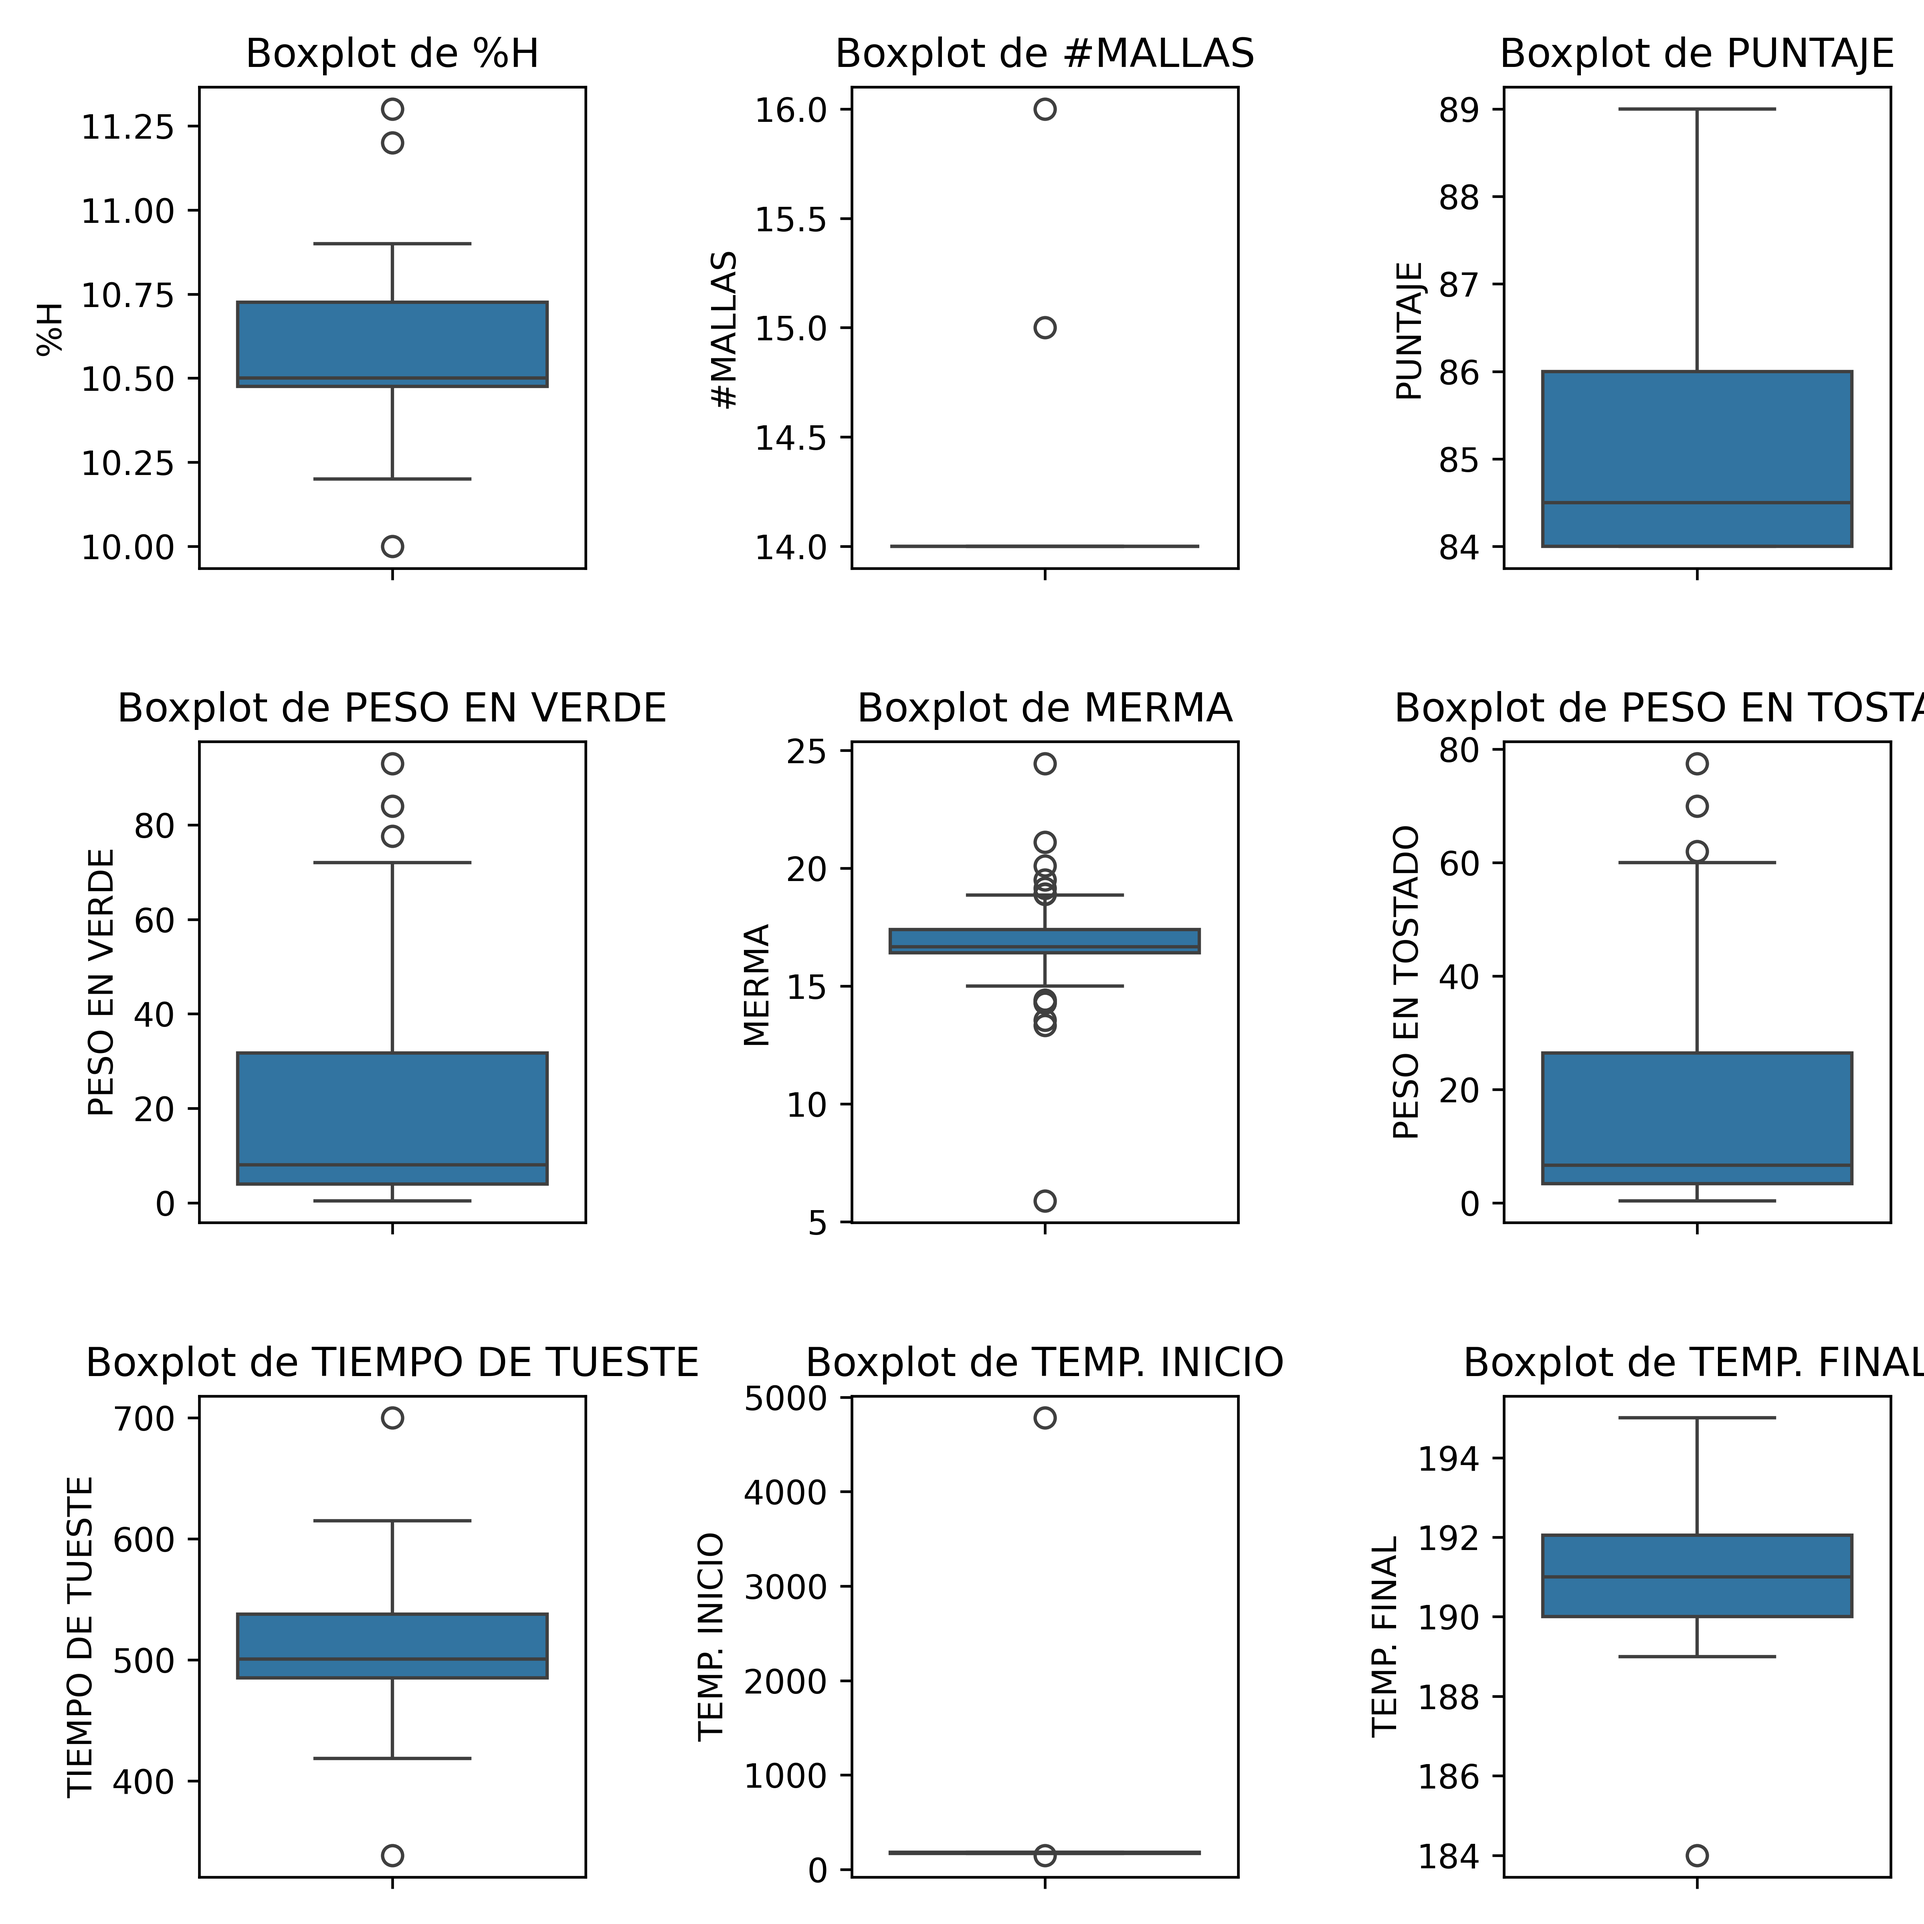
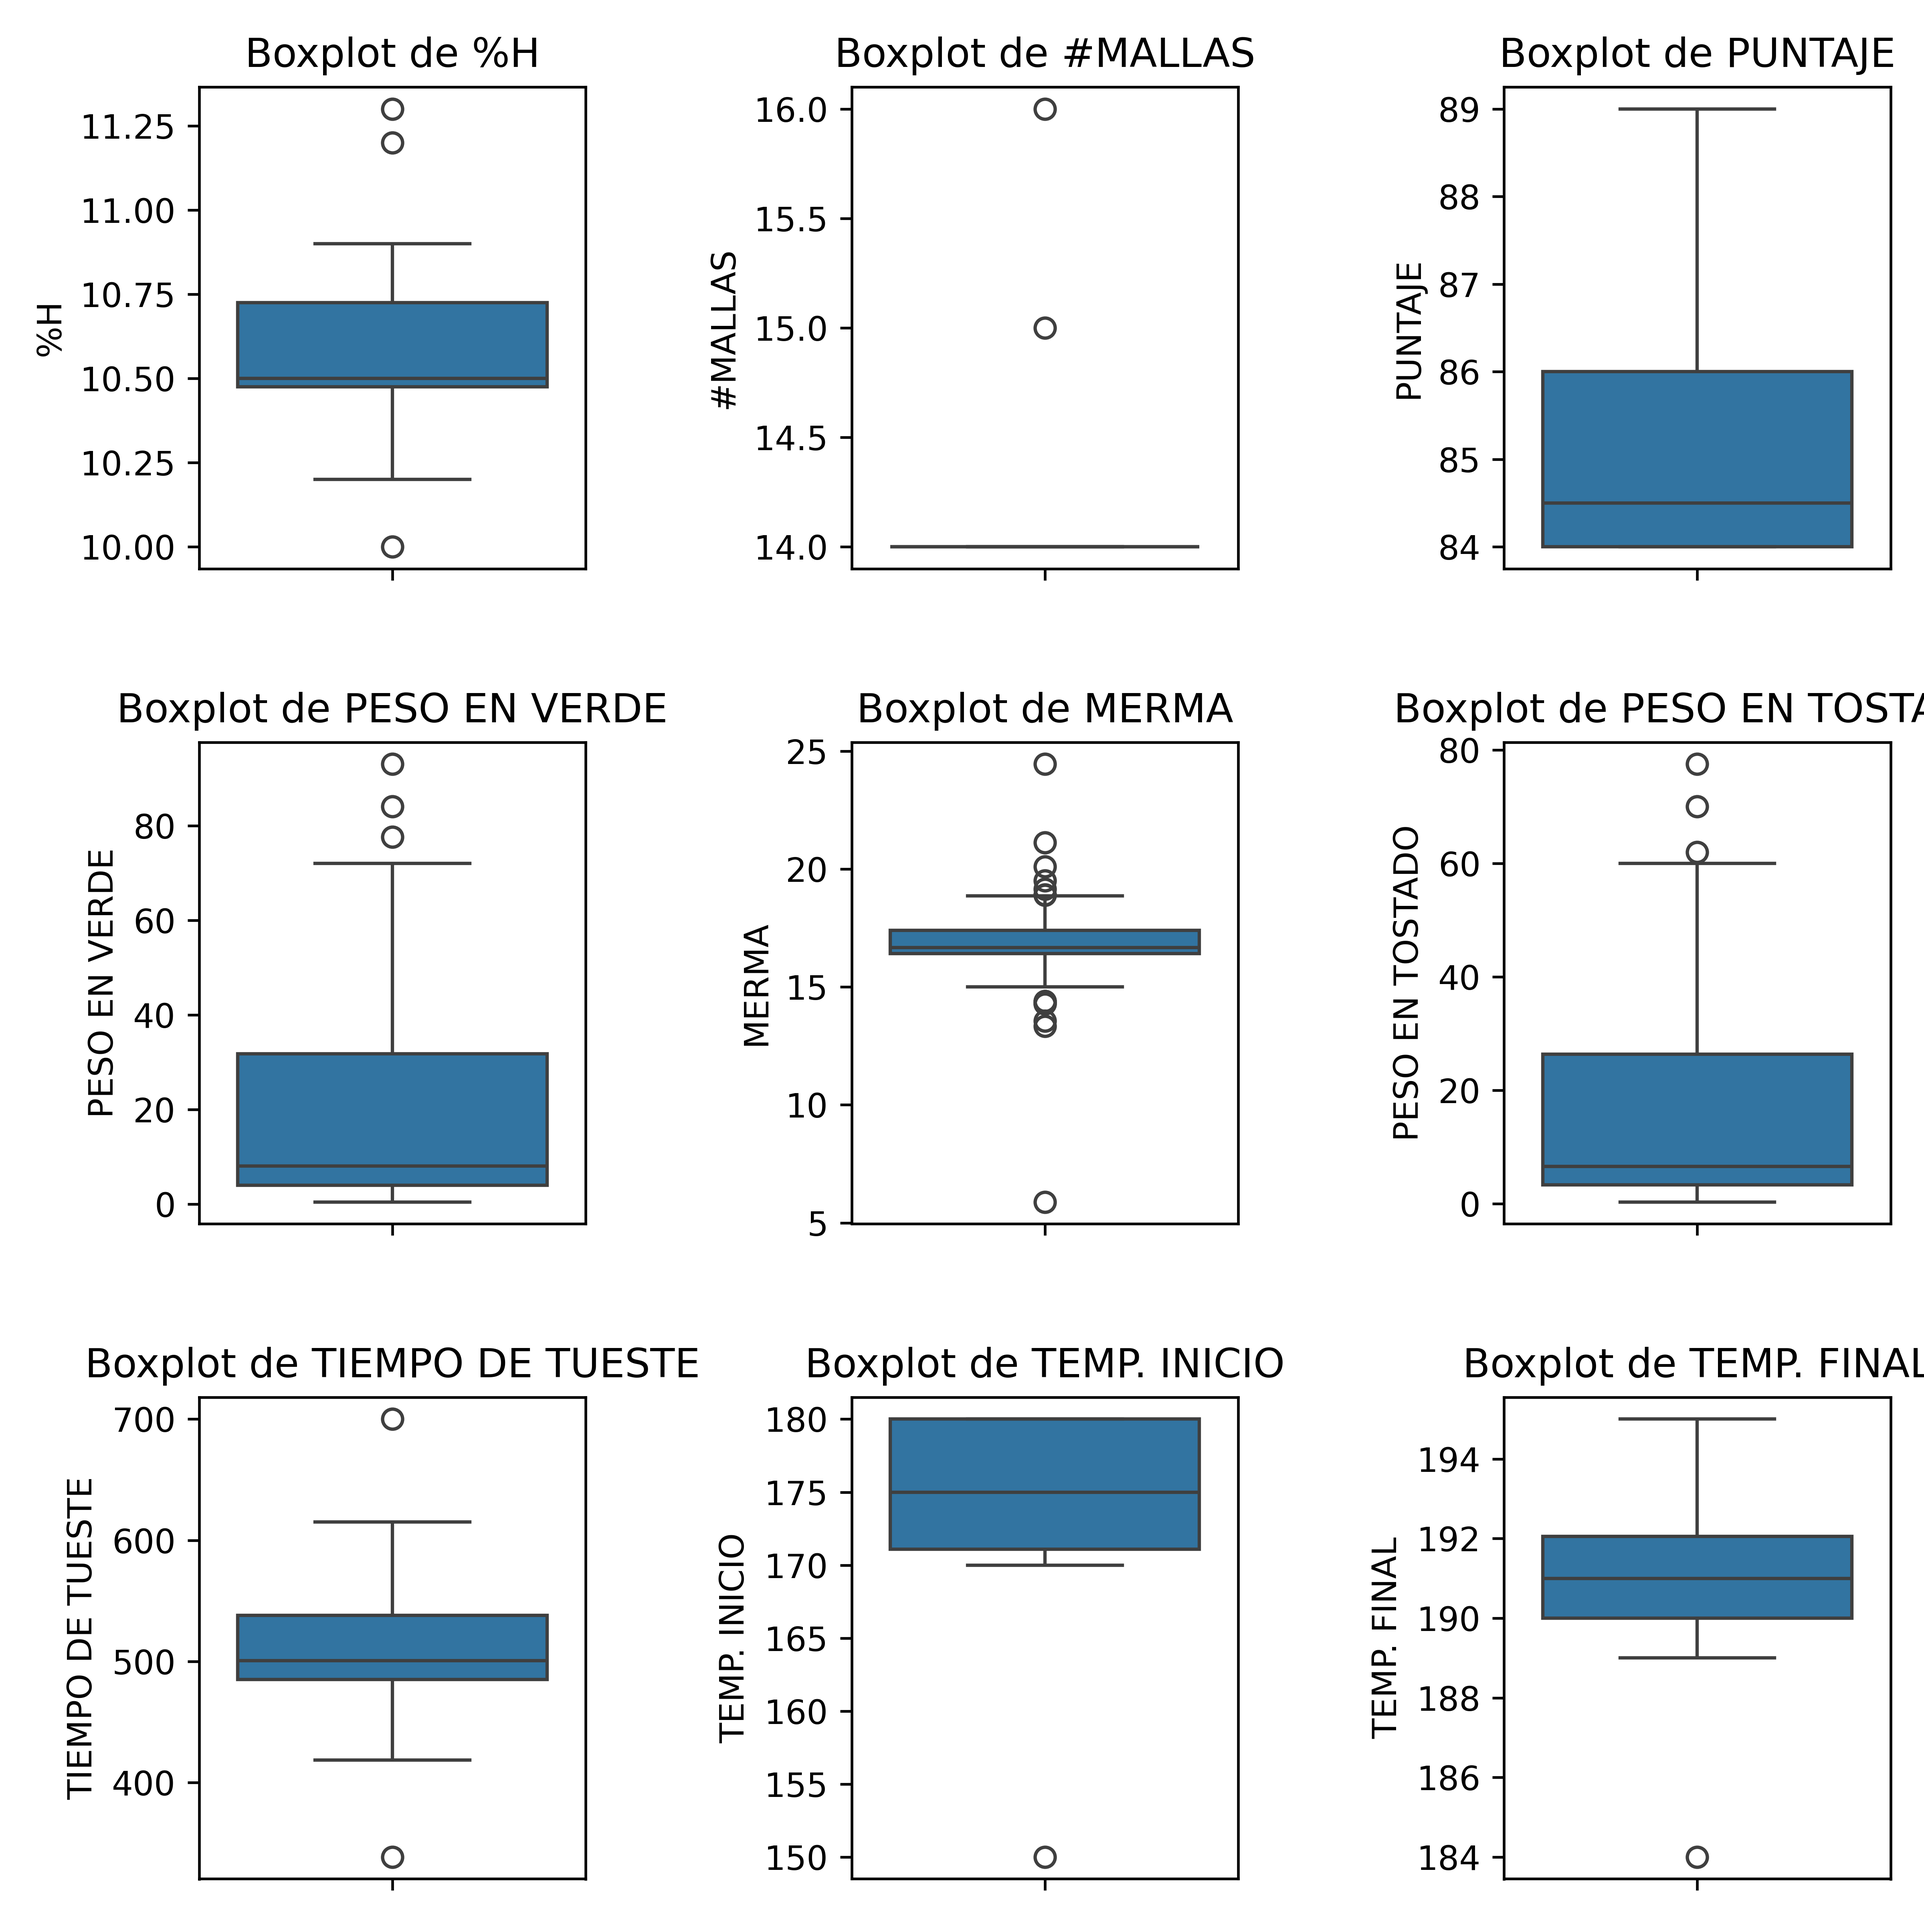
Project ready
Last practical commit, remains README.md

diff --git a/main.py b/main.py
@@ -1,0 +1,29 @@
+import subprocess
+import sys
+
+# Lista de tus scripts en el orden deseado
+# Asegúrate de que estos scripts estén en el mismo directorio que este ejecutor_simple.py
+scripts_a_ejecutar = [
+    "CC_FT_17.py",
+    "CC_FT_18.py",
+    "CC_FT_21.py",
+    "process_and_models.py"
+]
+
+print("Iniciando la ejecución secuencial de los scripts...\n")
+
+for script in scripts_a_ejecutar:
+    print(f"🚀 Ejecutando: {script}")
+    try:
+        # Usamos sys.executable para asegurarnos de usar el intérprete de Python correcto
+        # check=True: si un script falla, detiene la ejecución y muestra un error
+        subprocess.run([sys.executable, script], check=True)
+        print(f"✅ {script} se ejecutó con éxito.\n")
+    except subprocess.CalledProcessError:
+        print(f"❌ Error: {script} falló. La ejecución se ha detenido.\n")
+        sys.exit(1) # Sale del script principal con un código de error
+    except FileNotFoundError:
+        print(f"⚠ Error: No se encontró el script '{script}'. Asegúrate de que el nombre y la ruta sean correctos.\n")
+        sys.exit(1) # Sale del script principal con un código de error
+
+print("🎉 Todos los scripts se ejecutaron exitosamente.")

diff --git a/CC_FT_18.py b/CC_FT_18.py
@@ -221,7 +221,8 @@ df = pd.concat([df_sheet_1, df_sheet_2], ignore_index=True)
 
 # Reemplazamos las columnas por su versión en mayúsculas
 df.columns = df.columns.str.upper()
-
+df.loc[df['TEMP. FINAL'].isnull(), 'TEMP. INICIO'] = 175.0
+df.loc[df['TEMP. FINAL'].isnull(), 'TEMP. FINAL'] = 192.0
 
 # Veamos los valores únicos de la columna 'BENEFICIO' Y 'PROCESO'
 print(df['BENEFICIO'].unique())
